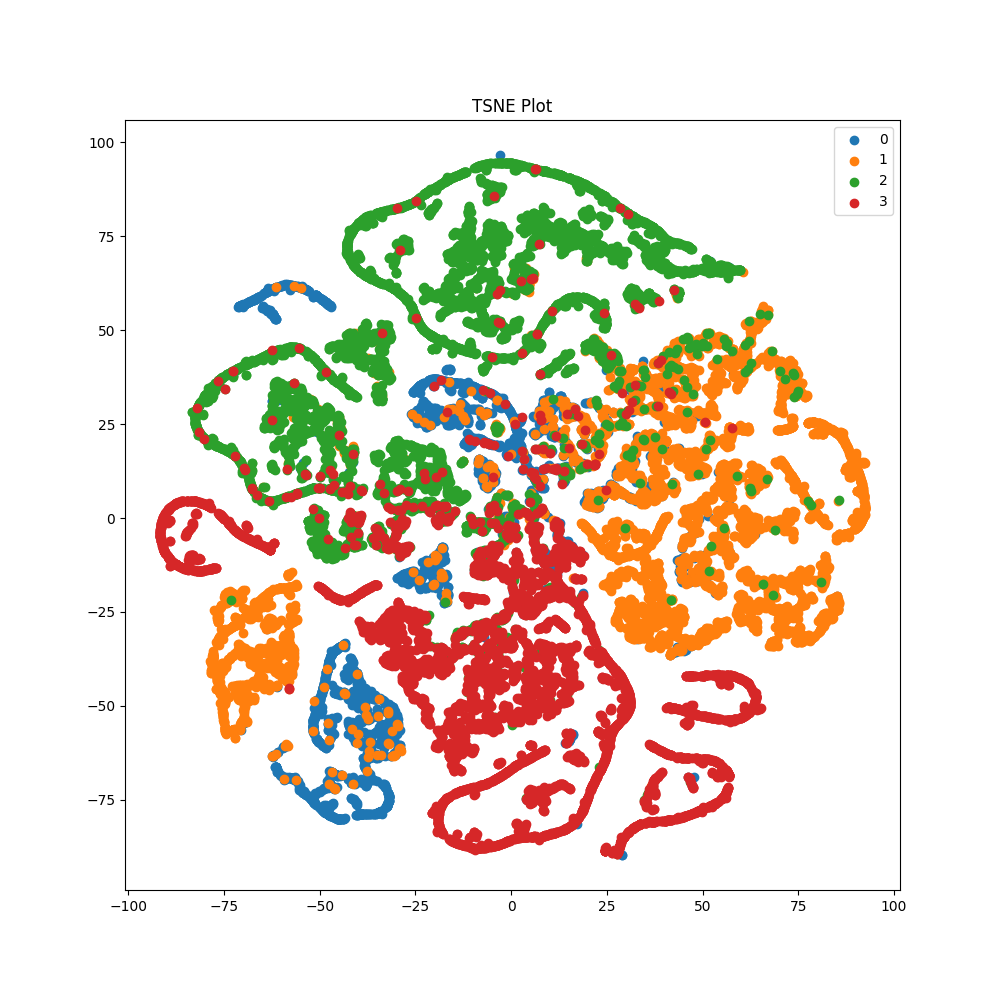
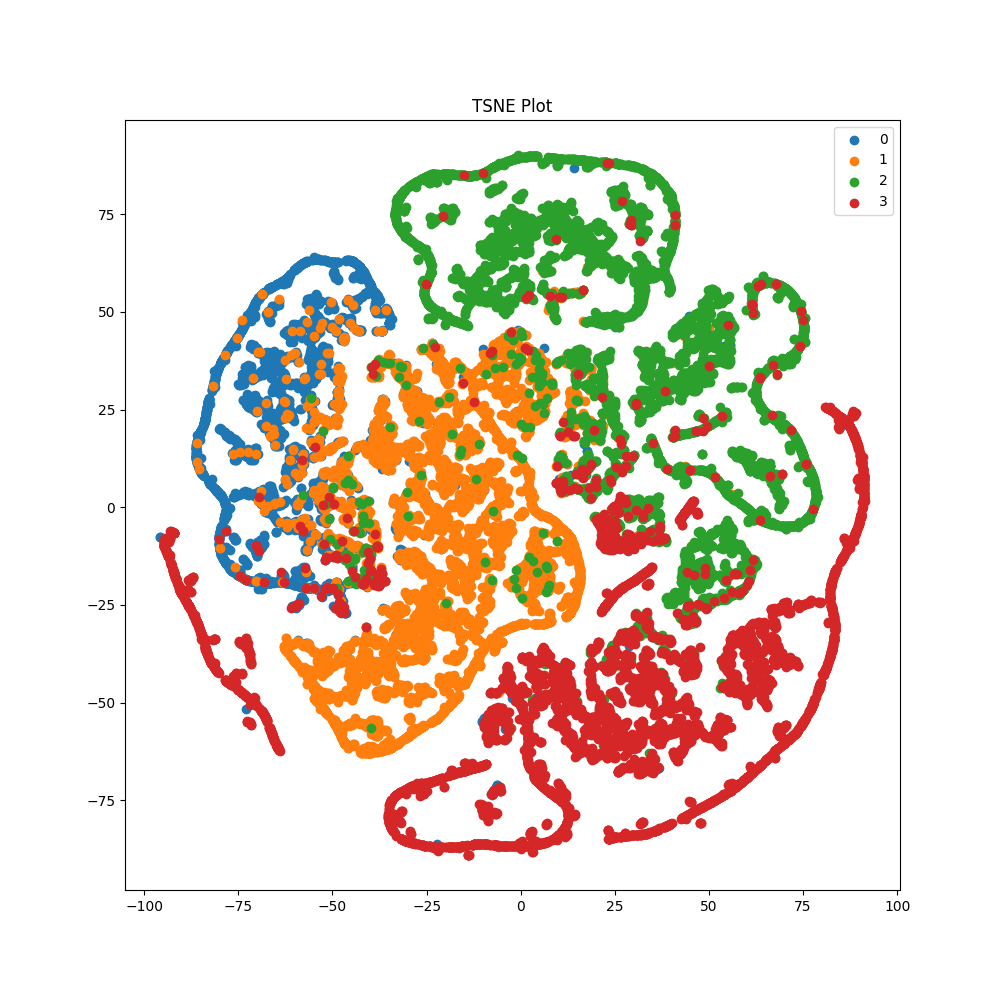
README.md draft 1. Added predictions scrnshot.

diff --git a/recognition/45321199-task#2-gcn/modules.py b/recognition/45321199-task#2-gcn/modules.py
@@ -8,7 +8,7 @@ __author__ = "Lachlan Comino"
 from dataset import DataLoader
 import tensorflow as tf
 
-from tensorflow.keras import backend, activations, initializers, regularizers, layers, Model, optimizers, losses, utils
+from tensorflow.keras import backend, activations, initializers, regularizers, layers, Model, optimizers, losses
 
 # Default Model Parameters
 CHANNELS        = 256

diff --git a/recognition/45321199-task#2-gcn/README.md b/recognition/45321199-task#2-gcn/README.md
@@ -1,0 +1,52 @@
+# Problem #2 - GCN model to classify different webpages in the Facebook dataset.
+
+## Problem Statement (From Task Sheet):
+Create a suitable multi-layer GCN model to carry out a semi supervised multi-class node classification using Facebook Large Page-Page Network dataset with reasonable accuracy. You should also include a TSNE embeddings plot with ground truth in colors.
+
+## Dataset Contents
+This project uses the partially-processed 128-dim vectors, provided via "https://graphmining.ai/datasets/ptg/facebook.npz".
+
+Contents:
+    - Label Types:    [0 1 2 3]
+    - Edges:          171002
+    - Vertices:       22470
+    - Features:       128
+
+Where the label types represent a category of webpage being politician, government institute, tv show or company.
+
+## Usage
+Before running "driver.py", ensure the latest version of the following modules are installed:
+    - tensorflow
+    - numpy
+    - matplotlib
+    - scipy
+    - sklearn
+
+"driver.py" once run, will begin the full process of retrieving the dataset, processing it, creating the model, training it and procuring statistics/predictions.
+Folder, "saved_model" will contain the model as a .h5 file, as well as the training history as a numpy matrix.
+Folder, "figures" will contain all the plots including accuracy, loss and TSNE. Provided in this folder are also screenshots manually taken of the model structure, training results and predictions.
+
+
+The entire process will take roughly 1hr on an RTX 3060.
+
+## The Process
+The model structure in question is a typical GCN. Consisting of an input layer, 2 middle layers for additional complexity (relu), and an output layer (softmax).
+Parameters (adjustable constants at the top of modules.py & train.py), are currently set to what is believed to generate a steady learning rate per epoch.
+This resulted in the following model:
+![model](recognition\45321199-task#2-gcn\figures\model.png)
+
+This model was then trained for 3000 epochs:
+![training](recognition\45321199-task#2-gcn\figures\training.png)
+
+
+## Results
+### Accuracy
+![Accuracy](recognition\45321199-task#2-gcn\figures\acc.png)
+### Loss
+![Accuracy](recognition\45321199-task#2-gcn\figures\loss.png)
+### Predictions
+![Accuracy](recognition\45321199-task#2-gcn\figures\predictions.png)
+### TSNE Plot
+![Accuracy](recognition\45321199-task#2-gcn\figures\TSNE.png)
+
+As seen in accuracy/loss, the model is closely fitted. This indicates that we have more than likely derived the full possible accuracy from the dataset (90%+). Extending or augmenting the dataset would therefore be the next step in improving the model's performance.
